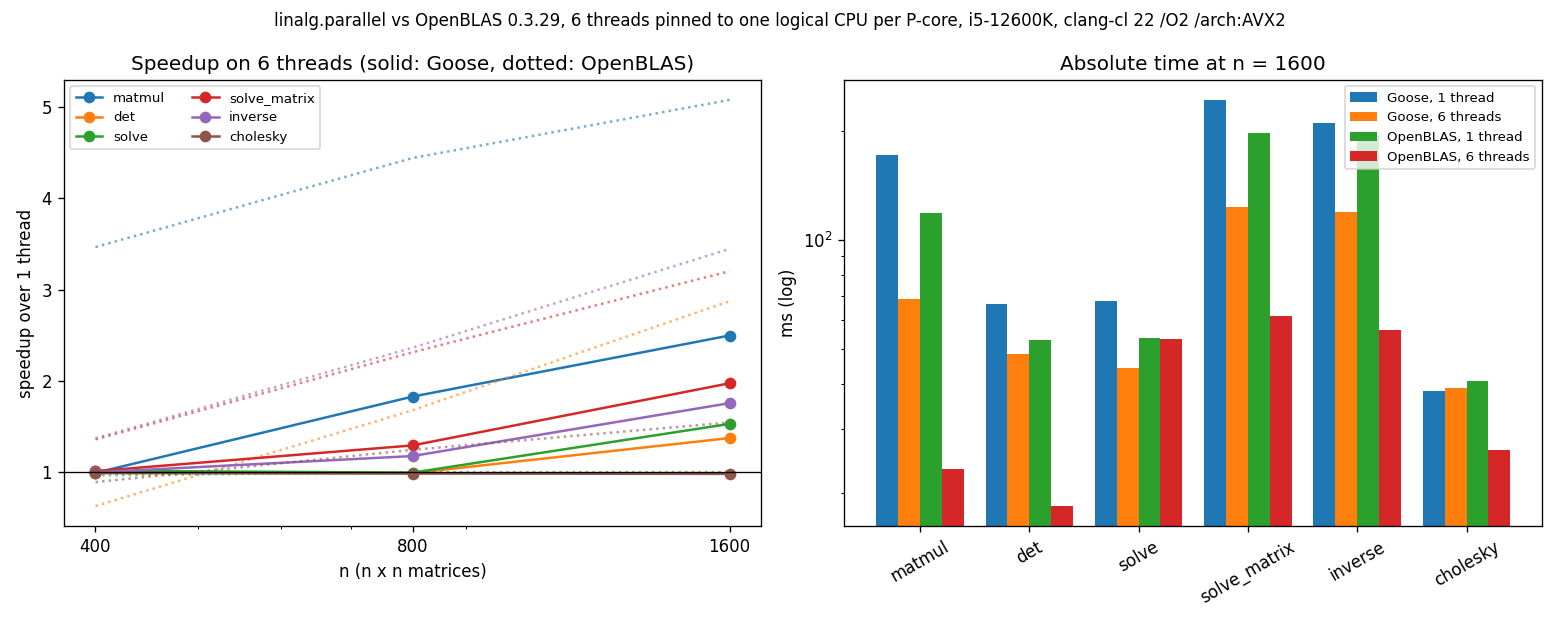
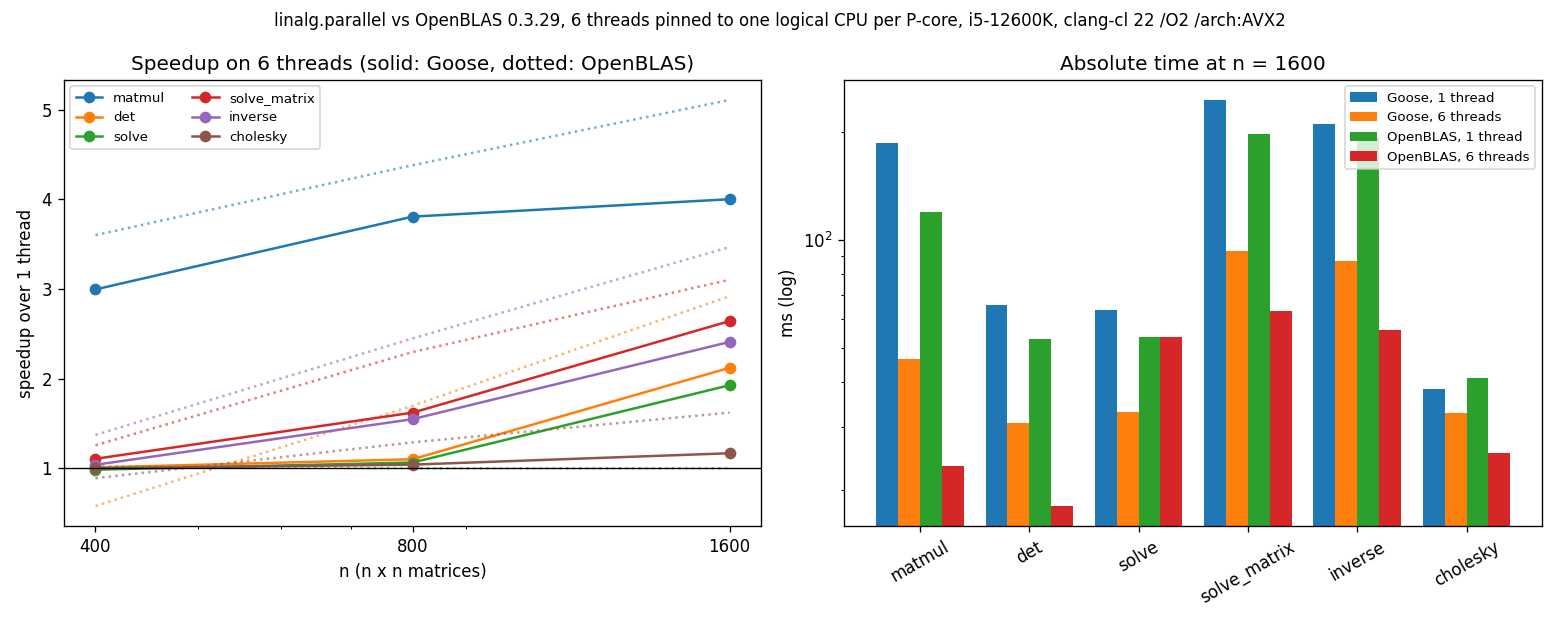
gemm_mt's COPY_NS 0.8; README and plots for v0.3.3
At COPY_NS = 0.5, gemm_mt shared the LU's 256-deep outer updates at
n = 400, which gained nothing, and solve_mt ran 2-5% behind solve there.
At 0.8 they stay on the calling thread: solve_mt and det_mt at n = 400
are level with serial, and matmul_mt still shares from about n = 190
(sharing measured faster from n = 150).

README: the single-threaded and multithreaded tables, the comparisons
under them and the plain-build and /fp:fast figures, from a fresh run of
run_pinned.ps1. Two OpenBLAS runs on six threads stalled (det 155-265 ms
at n = 400 and 800 instead of 2 and 5) and were run again. Imports point
at v0.3.3.

diff --git a/README.md b/README.md
@@ -5,7 +5,7 @@ build step, nothing to install. An optional module, `linalg.parallel`, runs the 
 several threads.
 
 ```goose
-import linalg from "guillochon/goose-linalg@v0.3.2";   // or from "../goose-linalg" for a local checkout
+import linalg from "guillochon/goose-linalg@v0.3.3";   // or from "../goose-linalg" for a local checkout
 
 fn main() {
     let a = linalg::from_rows(3, 3, [4, 1, 2, 1, 3, 0, 2, 0, 5]);
@@ -119,7 +119,8 @@ targets baseline x86-64 (SSE2).
 
 - **Under clang:** `linalg`'s hot kernels are `simd fn`s. Goose builds each for baseline x86-64
   and again for AVX2 and AVX-512, and picks the widest the CPU has at run time. A plain
-  `goose build` therefore ran within 2% of a build with AVX2 at n = 400 and 9% at smaller sizes, and
+  `goose build` therefore ran within 2% of a build with AVX2 at n = 400 and 9% at smaller sizes
+  (`matvec`, a call of microseconds, aside), and
   the matrix multiply ran at twice the speed it gets without `simd`.
 - **Under MSVC:** `simd` does nothing (Goose builds one version), so enable AVX2 yourself before
   building:
@@ -137,8 +138,8 @@ targets baseline x86-64 (SSE2).
   multiply-adds, and `/fp:contract` or `-ffp-contract=fast` change nothing.
 
 Don't use `/fp:fast` or `-ffast-math`. Under clang they do bring FMA back. The disassembly
-showed 2,124 vector FMA instructions against none, and the matrix multiply took 24% less time at
-n = 400, at 67 GFLOP/s, ahead of OpenBLAS's 63. But they break IEEE semantics: under `/fp:fast`, MSVC folds `1.0 / 0.0` to
+showed 2,124 vector FMA instructions against none, and the matrix multiply took 26% less time at
+n = 400, at 67 GFLOP/s, ahead of OpenBLAS's 62. But they break IEEE semantics: under `/fp:fast`, MSVC folds `1.0 / 0.0` to
 `1e300`, and checks for NaN and infinity stop working. One check in the test suite fails under
 it. It also ends `linalg.parallel`'s bit-for-bit match with the serial results: fast-math lets
 the compiler build the worker threads' copy of the kernel with a different summation order.
@@ -146,7 +147,7 @@ the compiler build the worker threads' copy of the kernel with a different summa
 ## Multithreading
 
 ```goose
-import linalg from "guillochon/goose-linalg@v0.3.2";
+import linalg from "guillochon/goose-linalg@v0.3.3";
 import linalg.parallel;
 
 fn main() {
@@ -213,7 +214,7 @@ sender, in order.
 
 In practice:
 
-- `matmul_mt` pays from about n = 150.
+- `matmul_mt` shares its products from about n = 200 (sharing measured faster from n = 150).
 - The LU family (`lu_factor_mt`, `det_mt`, `solve_mt`, `solve_matrix_mt`, `inverse_mt`) factors
   owner-computes from n = 800 on 3 threads or more. Below that, or on 2 threads, it shares its
   256-deep outer updates through `gemm_mt`, which pays from about n = 700.
@@ -256,7 +257,7 @@ race.
 | Memory | 32 GB DDR5-6200 (2 × 16 GB Corsair Vengeance, CMK32GX5M2B6200C36) |
 | Board | ASUS ROG STRIX Z690-I GAMING WIFI |
 | OS | Windows 11 Home 23H2 (build 22631), High performance power plan |
-| Goose | v2026.3, compiled by clang-cl 22.1.3 (Visual Studio 2026) with `/O2 /arch:AVX2`. A plain `goose build`, where `simd` picks the AVX2 kernels at run time, measured within 2% at n = 400 and 9% at smaller sizes. |
+| Goose | v2026.3, compiled by clang-cl 22.1.3 (Visual Studio 2026) with `/O2 /arch:AVX2`. A plain `goose build`, where `simd` picks the AVX2 kernels at run time, measured within 2% at n = 400 and 9% at smaller sizes (`matvec` aside). |
 | Reference | NumPy 2.2.6 on Python 3.12.0, linked to OpenBLAS 0.3.29 (`DYNAMIC_ARCH`, which picks AVX2/FMA kernels on this CPU) |
 | Pinning | Single-threaded runs on logical CPU 4, a performance core. Multithreaded runs use 6 threads pinned to logical CPUs 0, 2, 4, 6, 8 and 10, one per performance core. Unpinned, or on all 16 logical CPUs, OpenBLAS's LU ran more than 100× slower than on one thread. |
 
@@ -271,16 +272,16 @@ absolute times at n = 400:
 
 | | matmul | solve | inverse | cholesky | qr | eigh | svd |
 |---|---|---|---|---|---|---|---|
-| Goose | 2.5 ms | 1.19 ms | 3.6 ms | 0.79 ms | 5.4 ms | 12.0 ms | 24.5 ms |
-| OpenBLAS | 2.0 ms | 1.24 ms | 4.3 ms | 1.08 ms | 6.0 ms | 11.0 ms | 21.7 ms |
-| ratio | 1.25× | 0.96× | 0.82× | 0.73× | 0.90× | 1.09× | 1.13× |
+| Goose | 2.6 ms | 1.18 ms | 3.5 ms | 0.78 ms | 5.4 ms | 12.0 ms | 24.5 ms |
+| OpenBLAS | 2.1 ms | 1.27 ms | 4.3 ms | 1.12 ms | 6.2 ms | 11.0 ms | 21.6 ms |
+| ratio | 1.24× | 0.93× | 0.82× | 0.70× | 0.87× | 1.08× | 1.14× |
 
 At n = 400:
 - `solve`, `det` and `matvec` match OpenBLAS, and `inverse`, `cholesky` and `qr` beat it.
-- `matmul` runs at 50 GFLOP/s against OpenBLAS's 63. It is the furthest behind, at 1.2–1.4× at
+- `matmul` runs at 50 GFLOP/s against OpenBLAS's 62. It is the furthest behind, at 1.2–1.4× at
   every size, because Goose's C never uses FMA (see Building for speed).
-- The middle sizes are the next gap: at n = 200, `cholesky` is 1.18× behind, and `solve` and
-  `det` 1.05×. At n = 100 all three are ahead.
+- The middle sizes are the next gap: at n = 200, `cholesky` is 1.17× behind, and `solve` and
+  `det` 1.04–1.05×. At n = 100 all three are ahead.
 
 At n = 50, almost everything is faster than NumPy, whose call overhead dominates there.
 
@@ -311,21 +312,24 @@ Times at n = 1600, and the speedups on 6 threads over 1:
 
 | n = 1600 | matmul | det | solve | solve_matrix | inverse | cholesky |
 |---|---|---|---|---|---|---|
-| Goose, 1 thread | 172 ms | 67 ms | 68 ms | 244 ms | 210 ms | 38 ms |
-| Goose, 6 threads | 69 ms | 48 ms | 44 ms | 123 ms | 120 ms | 39 ms |
-| speedup | **2.5×** | 1.4× | 1.5× | **2.0×** | **1.8×** | 1.0× |
-| OpenBLAS, 1 thread | 118 ms | 53 ms | 54 ms | 197 ms | 194 ms | 41 ms |
-| OpenBLAS, 6 threads | 23 ms | 18 ms | 53 ms | 62 ms | 56 ms | 26 ms |
-| speedup | 5.1× | 2.9× | 1.0× | 3.2× | 3.4× | 1.5× |
+| Goose, 1 thread | 186 ms | 66 ms | 64 ms | 245 ms | 209 ms | 38 ms |
+| Goose, 6 threads | 46 ms | 31 ms | 33 ms | 93 ms | 87 ms | 33 ms |
+| speedup | **4.0×** | **2.1×** | **1.9×** | **2.6×** | **2.4×** | 1.2× |
+| OpenBLAS, 1 thread | 120 ms | 53 ms | 54 ms | 196 ms | 194 ms | 41 ms |
+| OpenBLAS, 6 threads | 23 ms | 18 ms | 54 ms | 63 ms | 56 ms | 25 ms |
+| speedup | 5.1× | 2.9× | 1.0× | 3.1× | 3.5× | 1.6× |
 
-On one thread Goose is 1.1–1.45× behind OpenBLAS at this size, more than at n = 400, where the
-matrices fit in cache; `cholesky` is 6% ahead. On six it is 1.5–3× behind, because OpenBLAS's
+On one thread Goose is 1.1–1.55× behind OpenBLAS at this size, more than at n = 400, where the
+matrices fit in cache; `cholesky` is 7% ahead. On six it is 1.3–2× behind, because OpenBLAS's
 threads share the matrix in memory while Goose's copy what they work on. The exception is
-`solve`, where Goose takes 17% less time: OpenBLAS doesn't speed it up on more threads at this
+`solve`, where Goose takes 38% less time: OpenBLAS doesn't speed it up on more threads at this
 size.
 
-At n = 800, `matmul` gains 1.8×, `solve_matrix` 1.30× and `inverse` 1.18×. The rest run at
-serial speed.
+At n = 800, `matmul` gains 3.8×, `solve_matrix` 1.6× and `inverse` 1.55×, and `det`, `solve` and
+`cholesky` 1.04–1.1×.
+
+One run of OpenBLAS on six threads stalled despite the pinning (its `det` took 155–265 ms at
+n = 400 and 800 instead of 2 and 5), as unpinned runs do. The table uses a repeat that didn't.
 
 ### Reproducing
 
